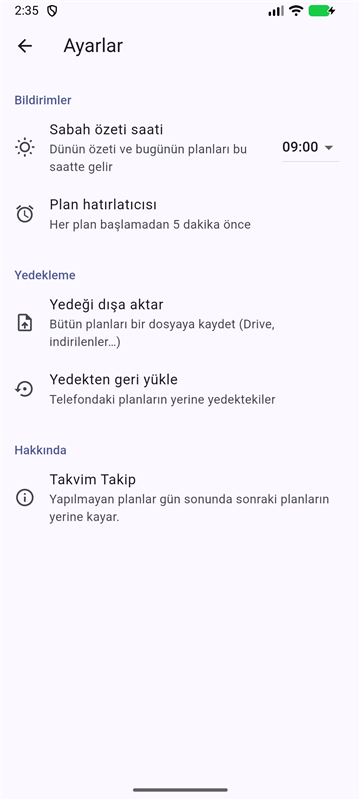
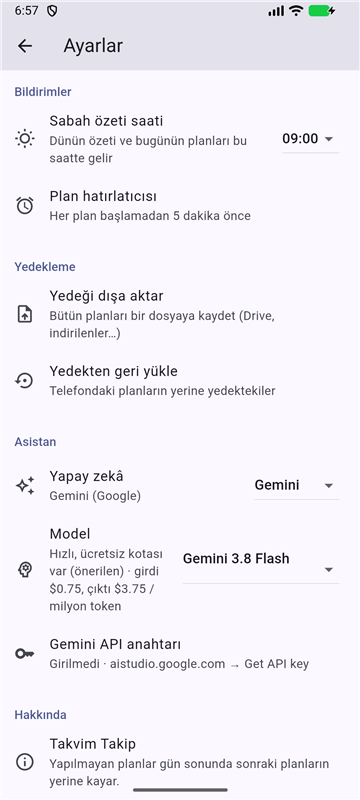
Belgeler dört yapay zekâ sağlayıcısına göre güncellendi, sürüm 1.1.0
- docs/KURULUM.md: '4. Yapay zekâ asistanını bağla' bölümü; Claude, ChatGPT,
  Gemini, DeepSeek için anahtarın nereden alınacağı (Gemini'nin ücretsiz
  kotası), uygulamada sağlayıcı/model/anahtar seçimi, 'Diğer…' ile elle
  model; ücretlendirme (aboneliklerden ayrı) ve 11 modelin fiyat tablosu;
  yeni sorun giderme satırları (kredi yok, kota doldu, model bulunamadı);
  gizlilik metni genelleştirildi
- README.md: özellik listesi ve klasör tablosu (lib/asistan/)
- docs/SPEC.md §9: 'Yapay zekâ asistanı', sağlayıcılar ve bağlayıcı biçimleri
- docs/ekran-goruntuleri/ayarlar.png: yeni Asistan bölümü (Gemini seçili)
- pubspec.yaml: 1.1.0+2

Emülatörde sürüm APK'sı: güncellemeden sonra kayıtlı Claude anahtarı
korunuyor; Yapay zekâ listesinde Claude/ChatGPT/Gemini/DeepSeek; Gemini
seçilince model, fiyat ve anahtar satırı Gemini'ye geçiyor.

diff --git a/docs/KURULUM.md b/docs/KURULUM.md
@@ -7,7 +7,7 @@ Bilgisayara, geliştirici araçlarına ya da hesap açmaya gerek yok.
 - [1. APK dosyasını indir](#1-apk-dosyasını-indir)
 - [2. Telefona kur](#2-telefona-kur)
 - [3. İlk açılış](#3-ilk-açılış)
-- [4. (İsteğe bağlı) Claude asistanını bağla](#4-isteğe-bağlı-claude-asistanını-bağla)
+- [4. (İsteğe bağlı) Yapay zekâ asistanını bağla](#4-isteğe-bağlı-yapay-zekâ-asistanını-bağla)
 - [Güncelleme](#güncelleme)
 - [Yedekleme ve telefon değiştirme](#yedekleme-ve-telefon-değiştirme)
 - [Sorun giderme](#sorun-giderme)
@@ -21,7 +21,7 @@ Bilgisayara, geliştirici araçlarına ya da hesap açmaya gerek yok.
 |---|---|
 | Telefon | Android 7.0 veya üstü |
 | Yer | ~60 MB |
-| İnternet | Gerekmez (yalnızca isteğe bağlı Claude asistanı için) |
+| İnternet | Gerekmez (yalnızca isteğe bağlı yapay zekâ asistanı için) |
 | iPhone | Şu an desteklenmiyor |
 
 ## 1. APK dosyasını indir
@@ -69,40 +69,61 @@ Bilgisayara, geliştirici araçlarına ya da hesap açmaya gerek yok.
 
 Ayrıntılı kurallar: [docs/SPEC.md](SPEC.md)
 
-## 4. (İsteğe bağlı) Claude asistanını bağla
+## 4. (İsteğe bağlı) Yapay zekâ asistanını bağla
 
 **Asistan** sekmesinde planlarını yazarak düzenletebilirsin:
 *"Yarın 18:00'e 1 saatlik spor ekle"*, *"Bugünkü dersi cumartesiye al"*.
-Claude önce bir **önizleme** gösterir; sen **Onayla** demeden hiçbir plan
+Asistan önce bir **önizleme** gösterir; sen **Onayla** demeden hiçbir plan
 değişmez.
 
-Bunun için kendi Anthropic API anahtarın gerekir:
+Dört yapay zekâdan birini seçebilirsin. Hangisini kullanacaksan onun
+**kendi API anahtarı** gerekir:
 
-1. [console.anthropic.com](https://console.anthropic.com) adresinde hesap aç
-   ya da giriş yap.
-2. **Billing** bölümünden kredi yükle (ör. 5 $).
-3. **API Keys → Create Key** ile bir anahtar oluştur ve kopyala
-   (`sk-ant-` ile başlar).
-4. Uygulamada **Asistan → Ayarlara git** → **API anahtarı** → yapıştır →
-   **Kaydet**.
+| Yapay zekâ | Anahtarı nereden alırsın | Not |
+|---|---|---|
+| **Claude** (Anthropic) | [console.anthropic.com](https://console.anthropic.com) → API Keys | Varsayılan. Billing'den kredi yükle. |
+| **ChatGPT** (OpenAI) | [platform.openai.com](https://platform.openai.com) → API keys | Billing'den kredi yükle. |
+| **Gemini** (Google) | [aistudio.google.com](https://aistudio.google.com) → Get API key | **Ücretsiz kotası var** (dakikalık/günlük sınırlı). |
+| **DeepSeek** | [platform.deepseek.com](https://platform.deepseek.com) → API keys | Çok ucuz. Top up'tan bakiye yükle. |
+
+1. Seçtiğin sağlayıcıda hesap aç, gerekiyorsa kredi yükle ve bir API
+   anahtarı oluşturup kopyala.
+2. Uygulamada ⚙ *Ayarlar → Asistan* → **Yapay zekâ**'dan sağlayıcıyı seç.
+3. **… API anahtarı** satırına dokun → yapıştır → **Kaydet**.
+4. İstersen **Model**'den başka bir model seç. Listede olmayan yeni bir
+   model için **Diğer…** ile adını elle yazabilirsin (fiyatı bilinmediği için
+   o zaman maliyet gösterilmez).
+
+Her sağlayıcının anahtarı ayrı saklanır; aralarında geçiş yapınca
+anahtarların silinmez.
 
 ### Ücretlendirme hakkında
 
-- API kullanımı **claude.ai aboneliğinden (Pro/Max) ayrıdır** ve aboneliğe
-  dahil değildir. Console hesabına yüklediğin ön ödemeli krediden düşer.
-- Kredi bitince istekler durur; kendiliğinden fazla ücret çekilmez.
-  Console → Billing'den aylık harcama sınırı da koyabilirsin.
-- Model *Ayarlar → Model*'den seçilir:
+- API kullanımı **ChatGPT Plus, Claude Pro, Gemini Advanced gibi
+  aboneliklerden ayrıdır** ve onlara dahil değildir. Sağlayıcının API
+  hesabına yüklediğin ön ödemeli krediden düşer (Gemini'nin ücretsiz kotası
+  hariç).
+- Kredi bitince istekler durur; kendiliğinden fazla ücret çekilmez. Çoğu
+  sağlayıcıda aylık harcama sınırı da koyabilirsin.
+- Hazır modeller ve fiyatları (milyon token başına, girdi / çıktı, Ekim 2026):
 
-  | Model | Girdi / Çıktı (milyon token) | Not |
-  |---|---|---|
-  | Claude Opus 5.5 | 4 $ / 20 $ | Varsayılan, en akıllısı |
-  | Claude Sonnet 5.5 | 2 $ / 10 $ | Hızlı, yaklaşık yarı fiyatına |
-  | Claude Haiku 5.5 | 0,10 $ / 0,50 $ | En hızlı ve en ucuzu |
+  | Yapay zekâ | Model | Fiyat | Not |
+  |---|---|---|---|
+  | Claude | Opus 5.5 | 4 $ / 20 $ | Varsayılan, en akıllısı |
+  | | Sonnet 5.5 | 2 $ / 10 $ | Hızlı, yarı fiyatına |
+  | | Haiku 5.5 | 0,10 $ / 0,50 $ | En ucuzu |
+  | ChatGPT | GPT-6.1 Sol | 2 $ / 10 $ | Önerilen |
+  | | GPT-6 Astra | 10 $ / 50 $ | En güçlüsü, pahalı |
+  | | GPT-6 Luna | 0,10 $ / 0,50 $ | En ucuzu |
+  | Gemini | 3.8 Flash | 0,75 $ / 3,75 $ | Önerilen, ücretsiz kotası var |
+  | | 4 Argon | 2 $ / 10 $ | En güçlüsü, ücretsiz kotası yok |
+  | | 3.5 Flash-Lite | 0,30 $ / 2,50 $ | Ücretsiz kotası var |
+  | DeepSeek | Flash | 0,30 $ / 1,20 $ | Gece saatlerinde yarı fiyatına |
+  | | V4 Pro | 1,32 $ / 3,96 $ | Daha güçlü |
 
-  "Yarına plan ekle" gibi tek bir istek Sonnet'te genellikle 1 sentin
-  altındadır. Sohbet ekranının altında yaklaşık maliyet yazar.
-
+  "Yarına plan ekle" gibi tek bir istek çoğu modelde 1 sentin altındadır.
+  Sohbet ekranının altında yaklaşık maliyet yazar. Fiyatlar sağlayıcılar
+  tarafından değiştirilebilir; güncelini sağlayıcının sayfasından kontrol et.
 ## Güncelleme
 
 Yeni sürümün APK'sını aynı şekilde indirip kur; mevcut uygulamanın üstüne
@@ -116,7 +137,7 @@ Planlar yalnızca telefonda saklanır (internet hesabı yok).
   İndirilenler'e kaydet.
 - **Yeni telefona taşı:** uygulamayı kur → ⚙ *Ayarlar → Yedekten geri yükle* →
   dosyayı seç.
-- Claude API anahtarı güvenlik için yedeğe girmez; yeni telefonda tekrar gir.
+- API anahtarları güvenlik için yedeğe girmez; yeni telefonda tekrar gir.
 
 Ara sıra yedek almanı öneririz.
 
@@ -128,13 +149,16 @@ Ara sıra yedek almanı öneririz.
 | Bildirimler gelmiyor | *Ayarlar → Uygulamalar → Takvim Takip → Bildirimler* açık mı? Pil ayarını **Kısıtlama yok** yap ([İlk açılış](#3-ilk-açılış)). |
 | Gece kaydırma olmamış | Pil kısıtlaması olabilir; uygulamayı açınca kaçırılan günler sırayla işlenir. |
 | Asistan: "İnternet bağlantısı yok" | İnterneti kontrol et. Devam ediyorsa en son sürümü kur (1.0.0'ın ilk derlemelerinde internet izni eksikti). |
-| Asistan: "API anahtarı geçersiz" | Anahtarı Console'dan yeniden kopyala; başında/sonunda boşluk olmasın. |
-| Asistan: "bakiyesi yetersiz" | Console → Billing'den kredi yükle. |
+| Asistan: "API anahtarı geçersiz" | Anahtarı sağlayıcının sayfasından yeniden kopyala; doğru sağlayıcıyı seçtiğinden emin ol. |
+| Asistan: "bakiyesi yetersiz" / "kredi yok" | Sağlayıcının Billing / Top up bölümünden kredi yükle. |
+| Asistan: "kotan doldu" (Gemini) | Ücretsiz kotanın dakikalık/günlük sınırı doldu; biraz bekle. |
+| Asistan: "Model bulunamadı" | Elle yazdığın model adını kontrol et ya da listeden bir model seç. |
 
 ## Gizlilik
 
 - Planların **yalnızca telefonunda** saklanır; uygulamanın sunucusu yok,
   reklam ve izleme yok.
-- Yalnızca Claude asistanını kullandığında, o sohbetin mesajları ve
-  önümüzdeki 14 günün planları Anthropic'e (api.anthropic.com) gönderilir.
-- API anahtarın telefonda Android Keystore ile şifreli saklanır.
+- Yalnızca asistanı kullandığında, o sohbetin mesajları ve önümüzdeki 14
+  günün planları seçtiğin sağlayıcıya (Anthropic, OpenAI, Google ya da
+  DeepSeek) gönderilir.
+- API anahtarların telefonda Android Keystore ile şifreli saklanır.

diff --git a/docs/SPEC.md b/docs/SPEC.md
@@ -147,32 +147,40 @@ zamanında çalışmış gibi olur.
 
 Ayarlar ekranında JSON dosyasına **dışa aktar** / dosyadan **içe aktar**.
 
-## 9. Claude entegrasyonu (Aşama 9)
+## 9. Yapay zekâ asistanı (Aşama 9)
 
-- Uygulama içinde sohbet: "yarınki dersi 18:00'e al" gibi komutlarla Claude
-  planları düzenler.
-- Kullanıcı kendi Claude API anahtarını ayarlara girer (kullanım başına
-  ücretlendirilir, claude.ai aboneliğinden ayrıdır).
-- Claude değişiklikleri **önce önizleme** olarak gösterir, kullanıcı onaylarsa
+- Uygulama içinde sohbet: "yarınki dersi 18:00'e al" gibi komutlarla yapay zekâ
+  asistanı planları düzenler.
+- Kullanıcı seçtiği sağlayıcının kendi API anahtarını ayarlara girer (kullanım
+  başına ücretlendirilir, ChatGPT Plus / Claude Pro gibi aboneliklerden
+  ayrıdır; Gemini'nin ücretsiz kotası var).
+- Asistan değişiklikleri **önce önizleme** olarak gösterir, kullanıcı onaylarsa
   uygulanır.
-- Sohbet sırasında ilgili planlar Anthropic'e gönderilir; başka hiçbir veri
+- Sohbet sırasında ilgili planlar seçilen sağlayıcıya gönderilir; başka hiçbir veri
   telefondan çıkmaz.
 
 ### Nasıl çalışıyor
-- Alt menüde **Asistan** sekmesi. Model ayarlardan seçilir: Claude Opus 5.5
-  (varsayılan), Sonnet 5.5, Haiku 5.5. API anahtarı Android Keystore ile
+- Alt menüde **Asistan** sekmesi. Ayarlardan yapay zekâ seçilir: **Claude**
+  (varsayılan), **ChatGPT** (OpenAI), **Gemini** (Google) ya da **DeepSeek**.
+  Her birinin hazır model listesi var; "Diğer…" ile model adı elle de
+  yazılabilir. Her sağlayıcının API anahtarı ayrı ayrı Android Keystore ile
   şifreli saklanır; veritabanına ve JSON yedeğine girmez.
-- Her mesajda Claude'a şu anki tarih/saat ve önümüzdeki 14 günün planları
+- Bağlayıcılar (lib/asistan/): Anthropic Messages API, OpenAI Responses API,
+  Gemini generateContent, DeepSeek chat/completions. Hepsinde konuşma geçmişi
+  sağlayıcının kendi biçiminde, değiştirilmeden yalnızca sonuna eklenerek
+  gönderilir (düşünme blokları, şifreli düşünme öğeleri, reasoning_content,
+  thoughtSignature dahil; bazı sağlayıcılar bunu zorunlu tutuyor).
+- Her mesajda asistana şu anki tarih/saat ve önümüzdeki 14 günün planları
   (kimlikleriyle) gönderilir.
-- Claude'un iki aracı var:
+- Asistanın iki aracı var:
   - `planlari_listele(baslangic, bitis)`: daha uzak tarihleri okur;
     onaysız çalışır, hiçbir şeyi değiştirmez.
   - `degisiklik_oner(aciklama, islemler)`: ekle / guncelle / sil / durum
     işlemleri. Uygulama önce bu dokümandaki kurallarla doğrular (geçmiş
     gün, çakışma, olmayan plan); geçersizse hiçbir şey değişmez ve hata
-    Claude'a döner. Geçerliyse önizleme kartı çıkar; **Onayla** ile hepsi
+    asistana döner. Geçerliyse önizleme kartı çıkar; **Onayla** ile hepsi
     tek seferde uygulanır, **Reddet** ile hiçbiri.
-- Claude onay gelmeden değişikliği yaptığını söylemez; reddedilirse ne
+- Asistan onay gelmeden değişikliği yaptığını söylemez; reddedilirse ne
   istendiğini sorar. Kodlama gibi konu dışı istekleri geri çevirir.
 - Ekranda sohbetin yaklaşık maliyeti gösterilir.
 
@@ -189,4 +197,4 @@ Ayarlar ekranında JSON dosyasına **dışa aktar** / dosyadan **içe aktar**.
 | 6 | 23:59 otomatik kaydırma (arka plan) + kaçırılan günler + bildirimler |
 | 7 | Yedekleme (JSON) + ayarlar |
 | 8 | APK derleme, telefona kurulum |
-| 9 | Claude entegrasyonu |
+| 9 | Yapay zekâ asistanı (Claude, ChatGPT, Gemini, DeepSeek) |

diff --git a/README.md b/README.md
@@ -21,8 +21,10 @@ plan saatine kaydıran** kişisel Android uygulaması.
 - **Bildirimler:** Sabah özeti ("Dün 1 plan yapılmadı, 4 plan kaydı…") ve her
   plandan 5 dakika önce hatırlatıcı. Uygulama kapalıyken de çalışır.
 - **Yedekleme:** Tek dosyaya dışa aktar / geri yükle.
-- **Claude asistanı (isteğe bağlı):** "Yarın 18:00'e spor ekle" de; Claude
-  önizleme gösterir, sen onaylarsın. Kendi Anthropic API anahtarınla.
+- **Yapay zekâ asistanı (isteğe bağlı):** "Yarın 18:00'e spor ekle" de;
+  asistan önizleme gösterir, sen onaylarsın. **Claude, ChatGPT, Gemini ya da
+  DeepSeek**'ten birini seç; kendi API anahtarınla (Gemini'nin ücretsiz kotası
+  var).
 - İnternet hesabı yok, reklam yok; veriler telefonda. Türkçe.
 
 <p>
@@ -39,7 +41,7 @@ plan saatine kaydıran** kişisel Android uygulaması.
    (Play Protect uyarısında *Yine de yükle*).
 3. İlk açılışta **bildirim iznine** izin ver.
 
-Adım adım anlatım, Claude asistanının kurulumu ve ücretlendirmesi, yedekleme
+Adım adım anlatım, yapay zekâ asistanının kurulumu ve ücretlendirmesi, yedekleme
 ve sorun giderme: **[docs/KURULUM.md](docs/KURULUM.md)**
 
 ## Nasıl çalışır
@@ -76,7 +78,7 @@ Kod yapısı:
 | `lib/data/` | SQLite şeması ve `PlanDeposu` |
 | `lib/ui/` | Ekranlar |
 | `lib/platform/` | Bildirimler ve gece yarısı arka plan görevi |
-| `lib/claude/` | Claude API istemcisi ve sohbet döngüsü |
+| `lib/asistan/` | Yapay zekâ asistanı: sağlayıcı bağlayıcıları (Claude, OpenAI, Gemini, DeepSeek) ve sohbet döngüsü |
 | `test/` | Birim ve widget testleri |
 
 ### Sürüm imzası
